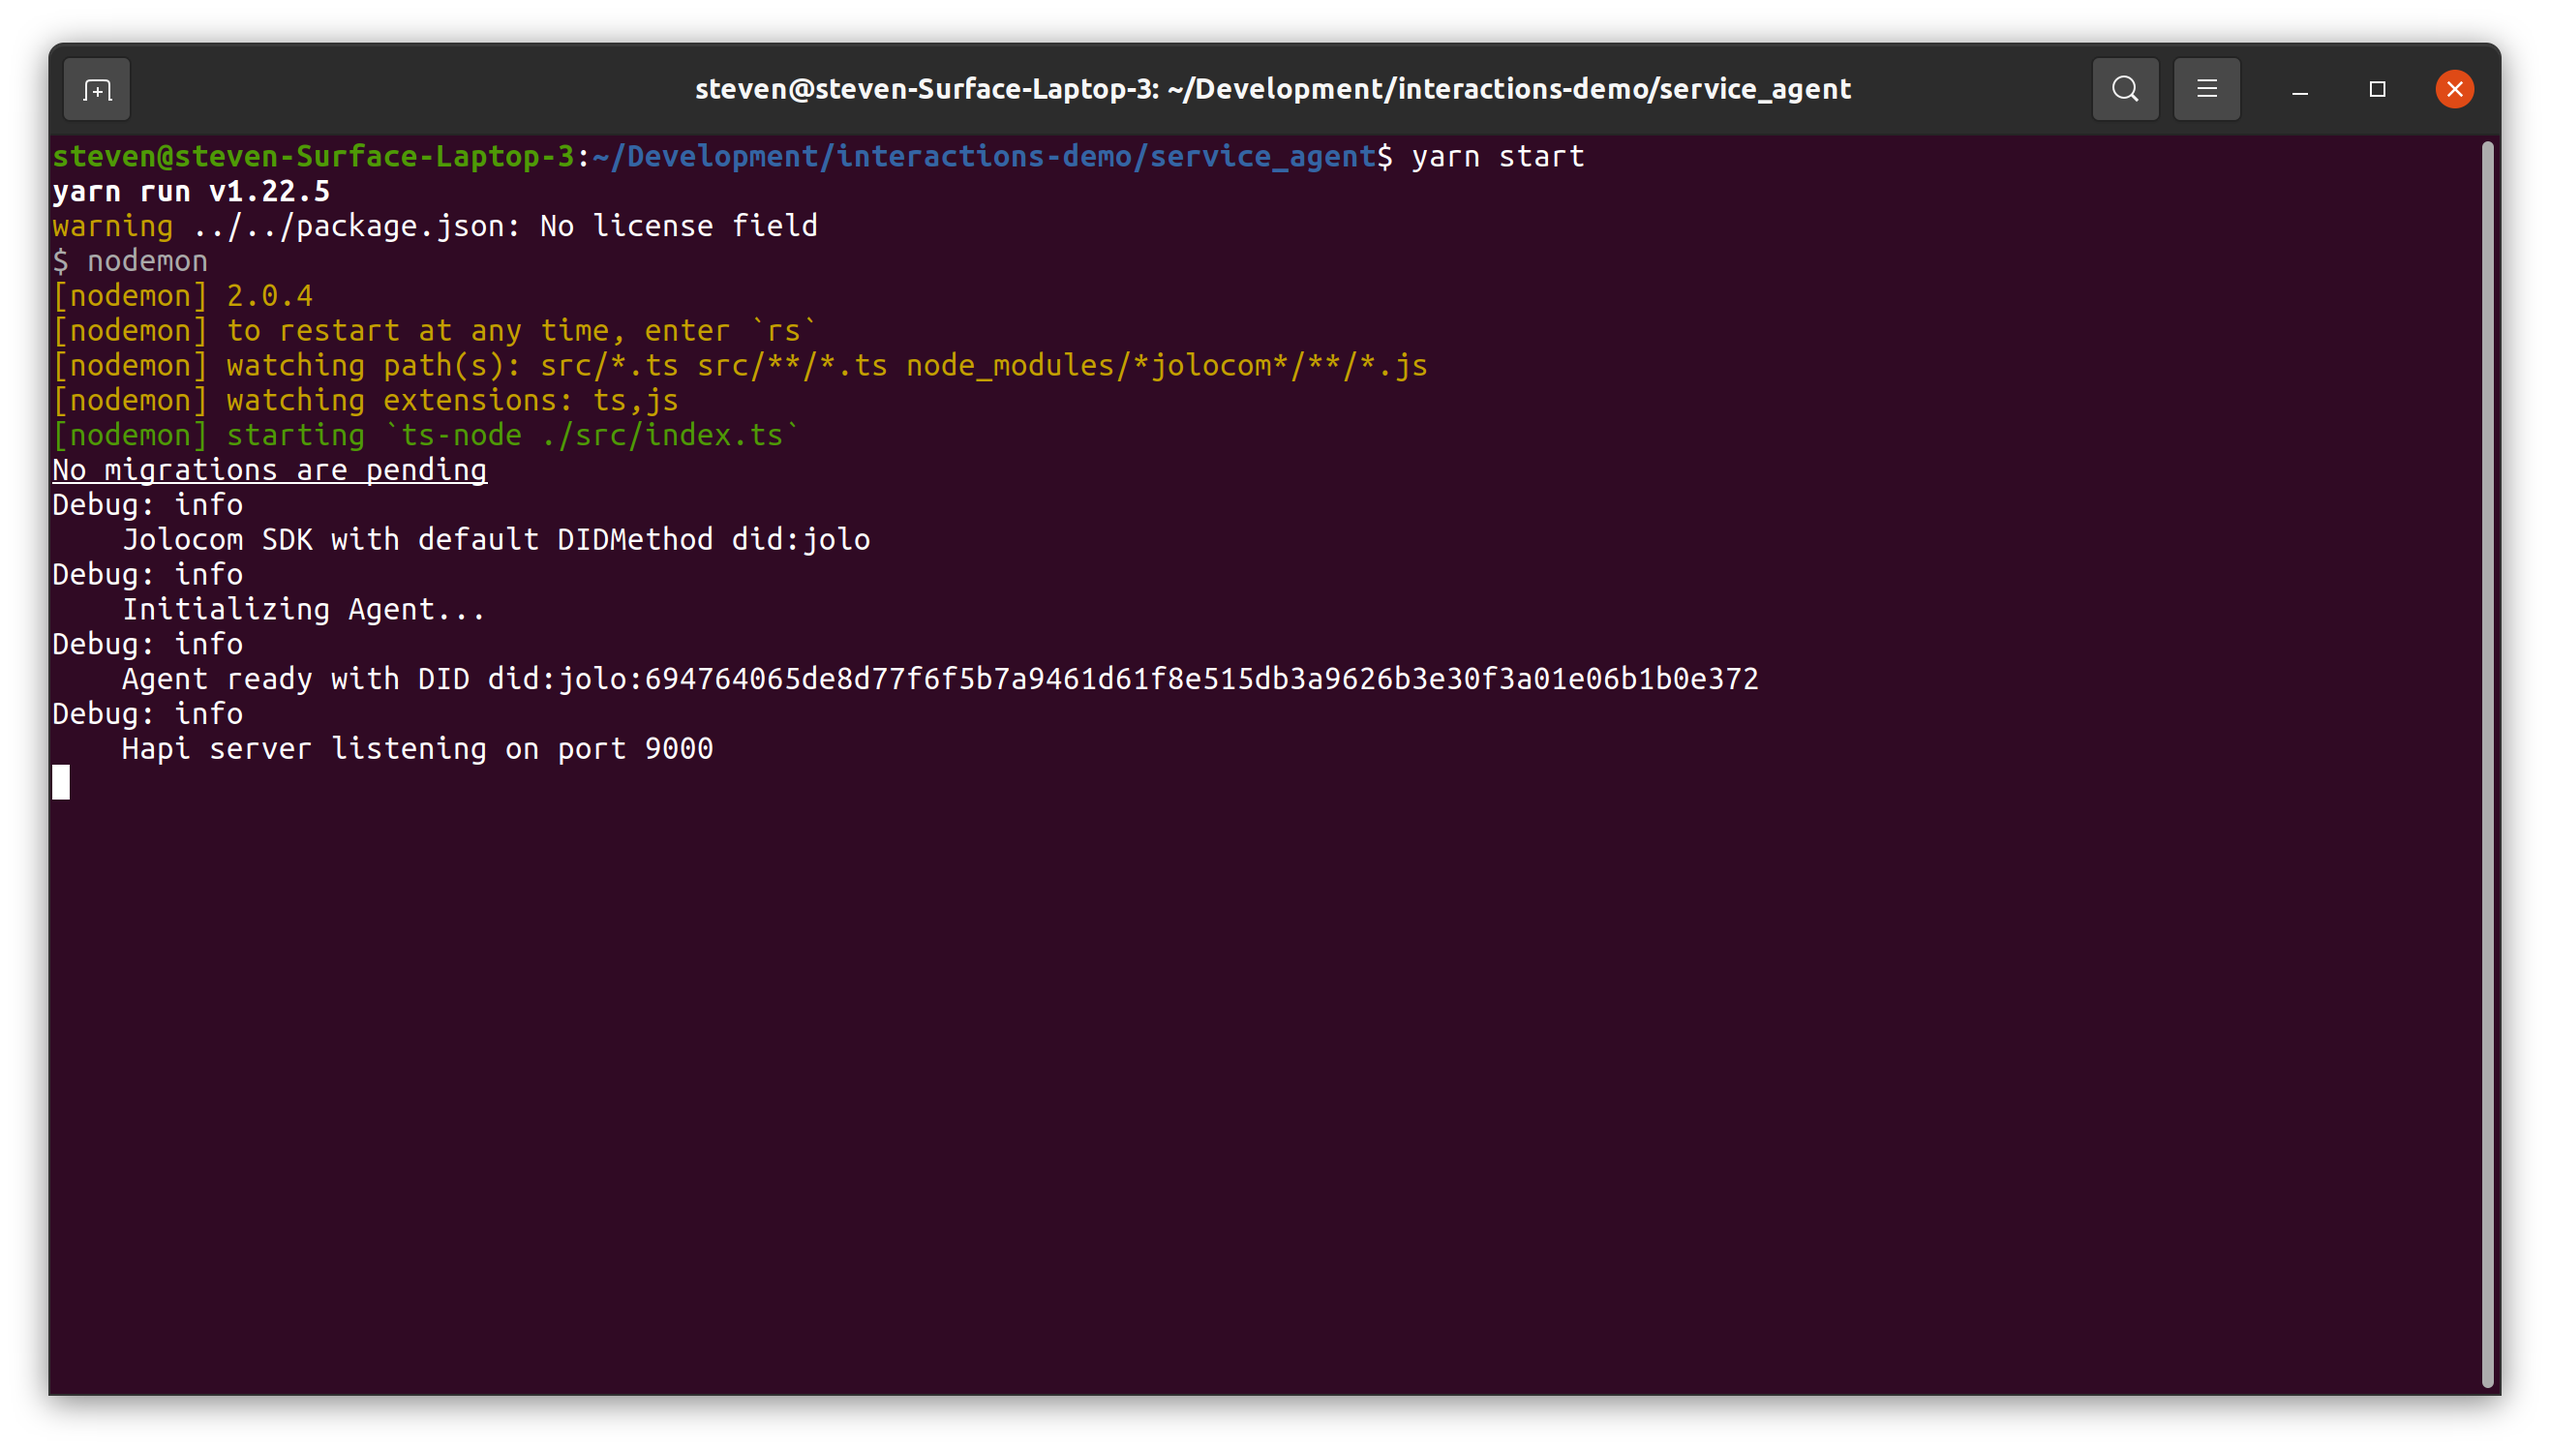
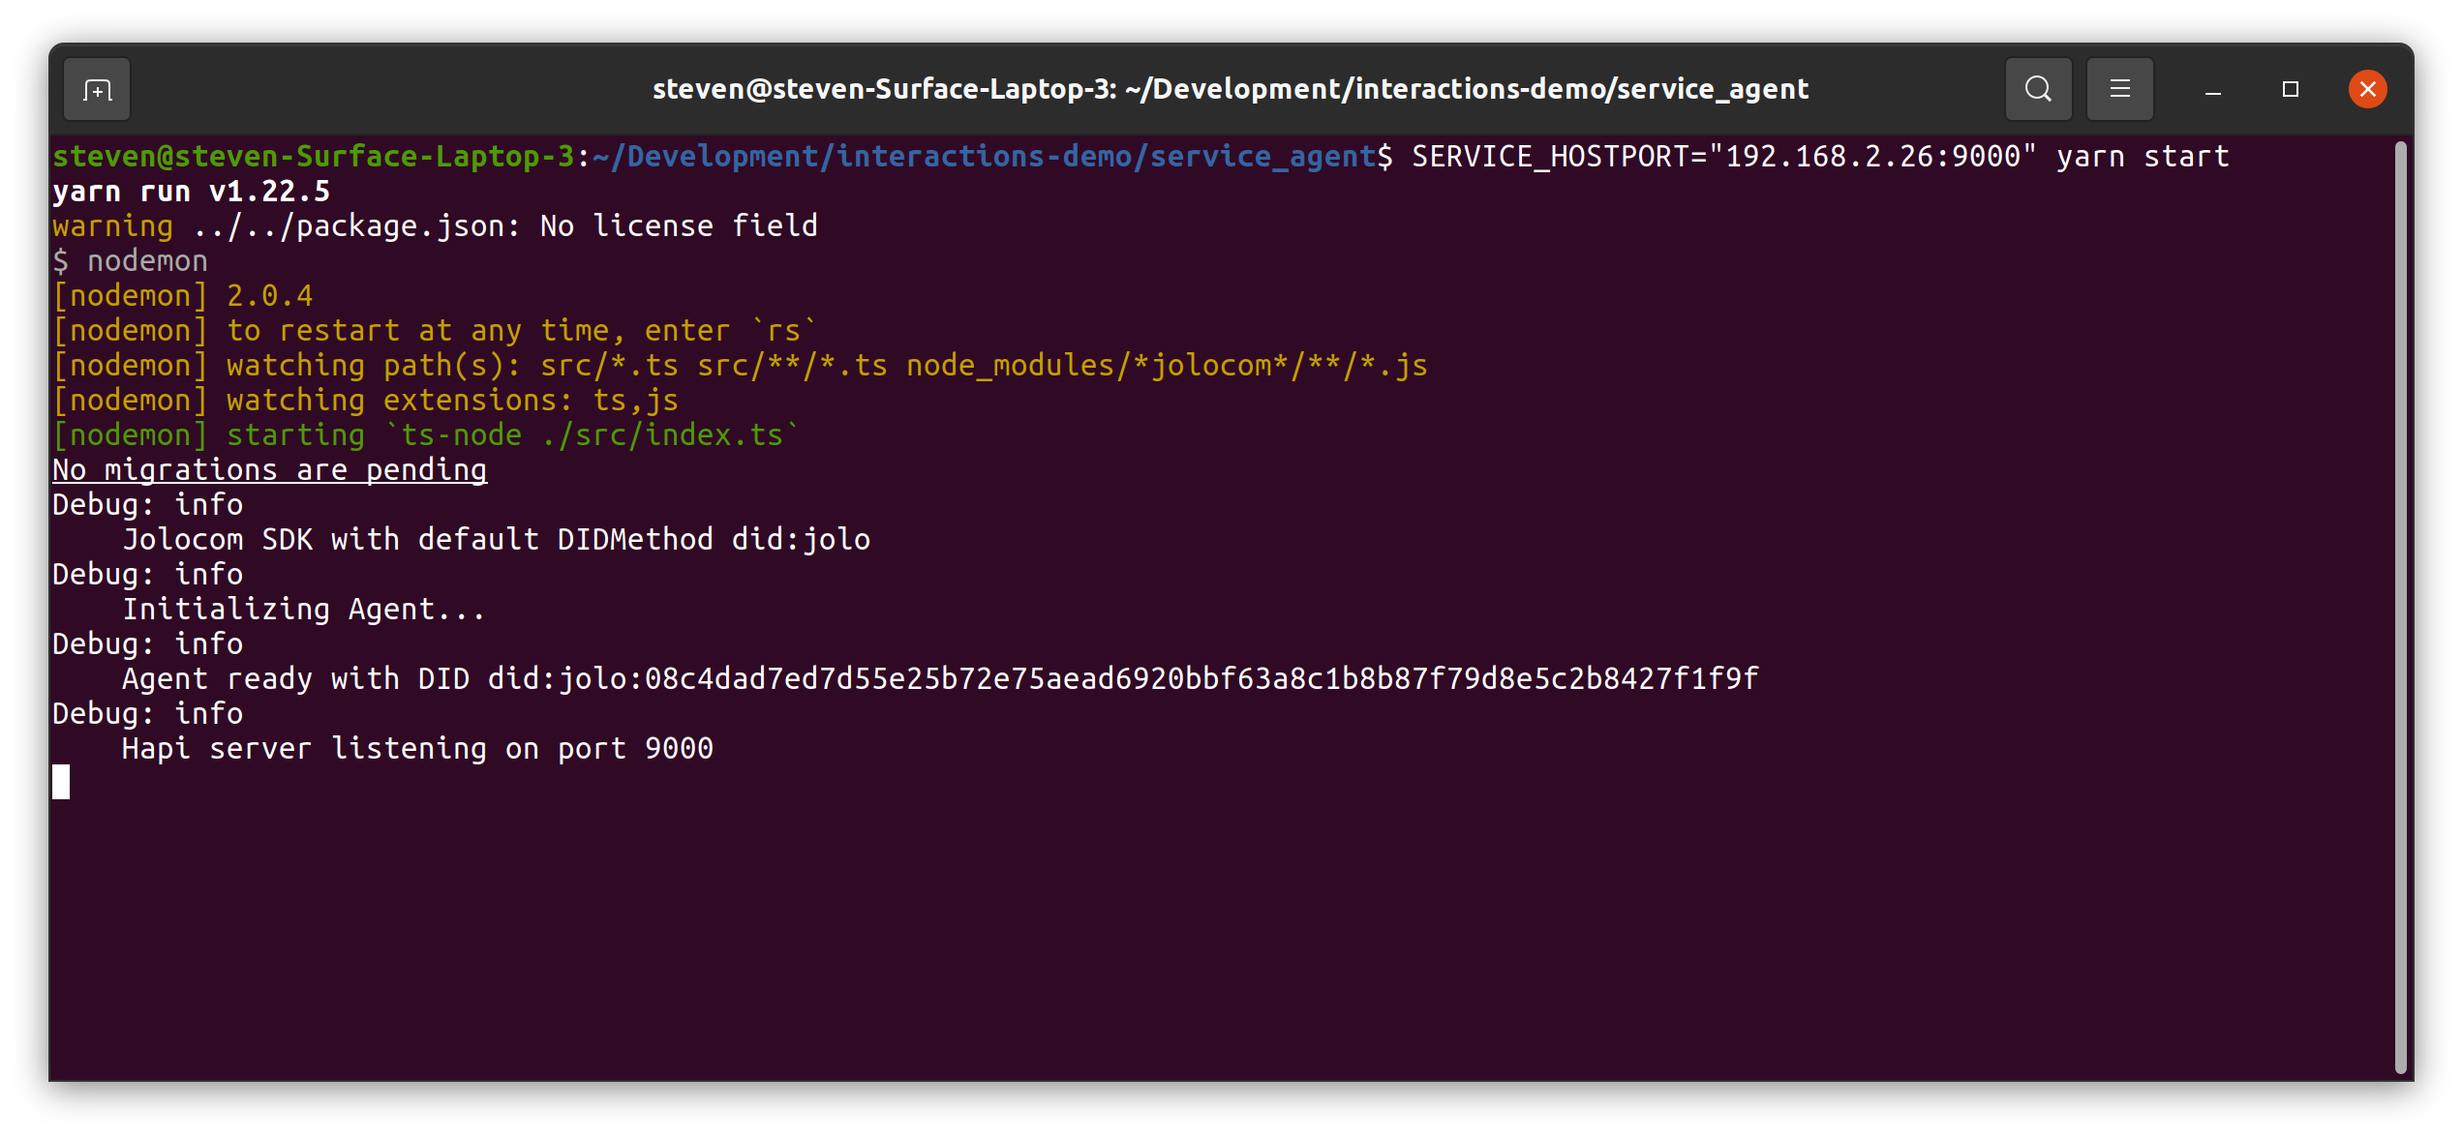
added & improved notes from the demo explorations

Changed region(s): [[0.0, 0.0307, 0.9937, 0.9813], [0.0, 0.6746, 0.0311, 0.7053]]

diff --git a/README.md b/README.md
@@ -58,7 +58,17 @@ build of the SmartWallet on Android, available for download here: https://joloco
 
 ### Notes from the demo explorations
 
-![yarn start terminal](images/jolocom-yarn-start.png)
+#### Node
+
+Because this demo requires a version of Node: 10, 12 or 14, this must be checked and/or adjusted before starting.
+
+![node versions](images/node-versions.png)
+
+#### Service Agent
+
 Here would be the point where you set the `SERVICE_HOSTPORT` environment variable, basically by prefixing the command line with the variable:
 ```
 $ SERVICE_HOSTPORT="192.168.2.26:9000" yarn start
+```
+
+![yarn start terminal](images/jolocom-yarn-start.png)
